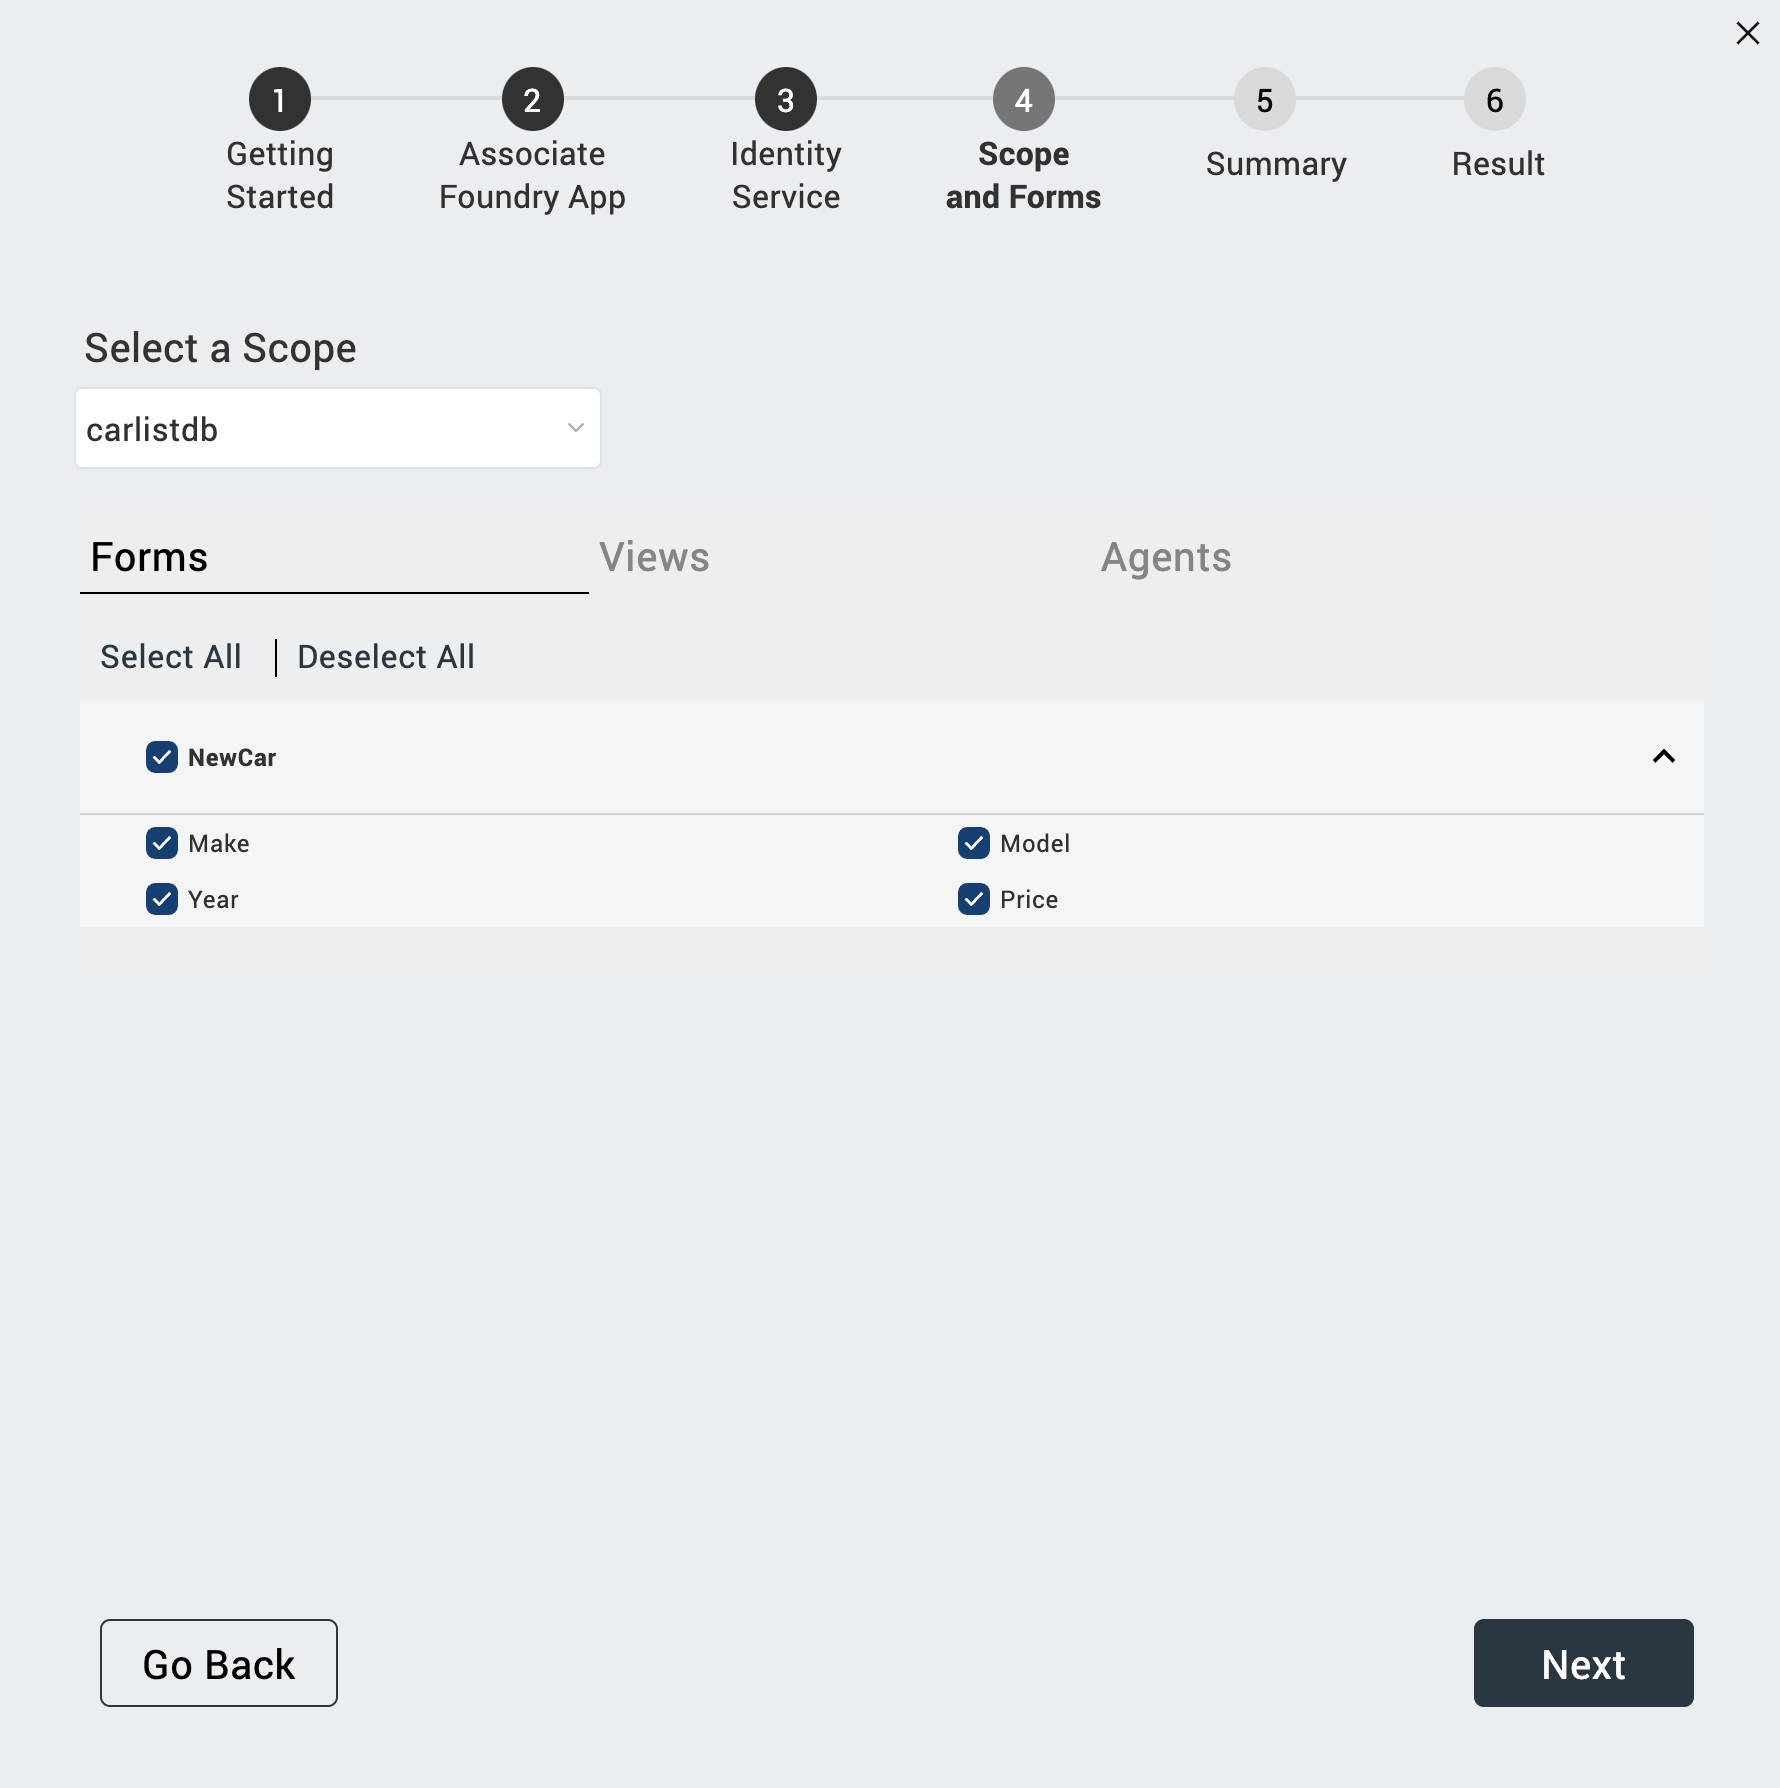
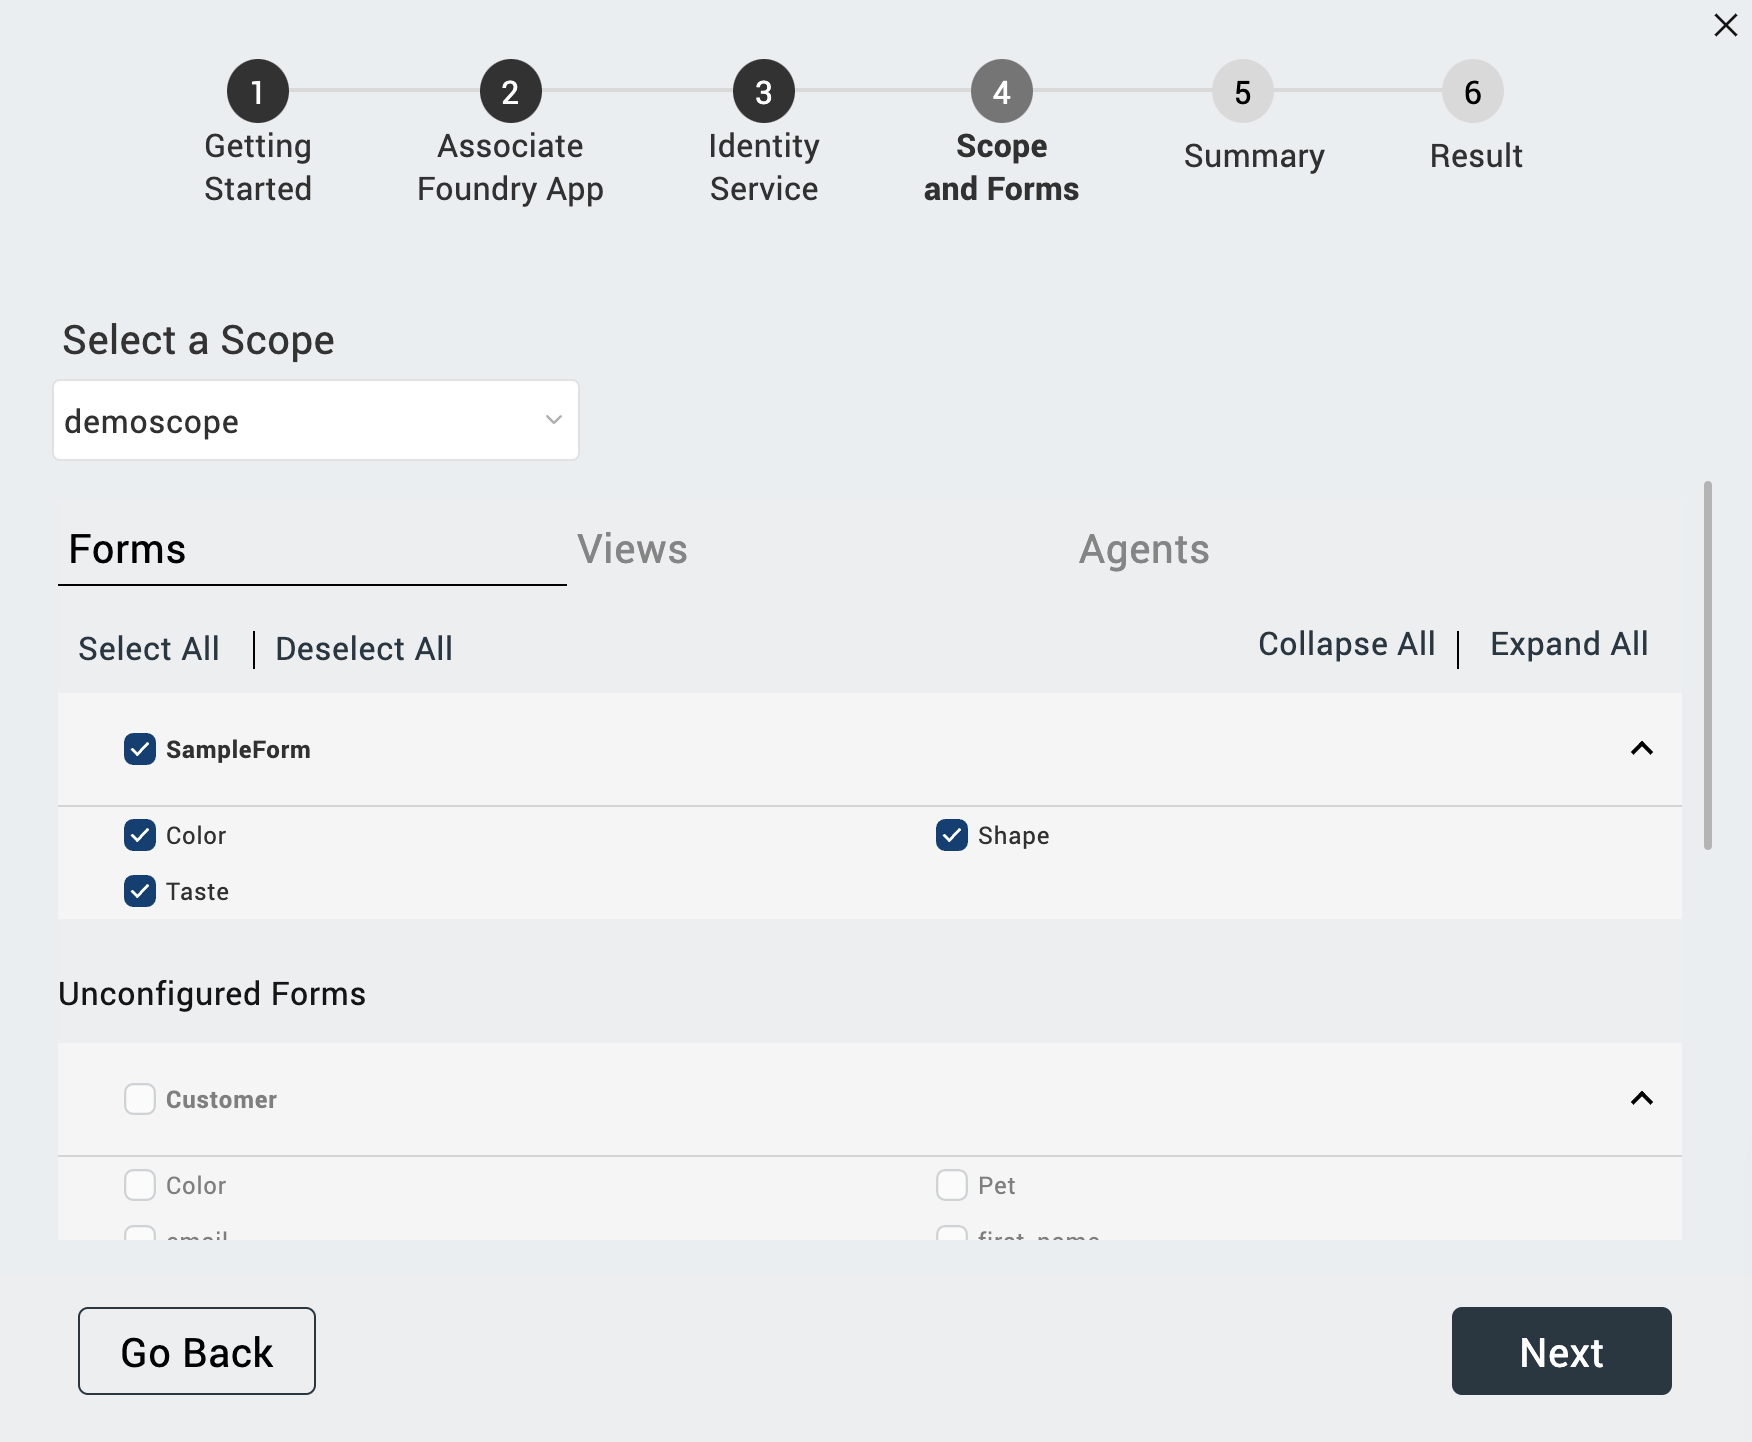
image, designimport, voltformula, rosettacofig

diff --git a/docs/tutorials/designimport.md b/docs/tutorials/designimport.md
@@ -88,7 +88,7 @@
 
 	![](../assets/images/dikeep.png){: style="height:80%;width:80%"}
 
-	1. Select your **service name**, that you added from the earlier page and click **Next**. Once your Foundry Application has pubished, your service name should be named as MXGO(service name). Example: MXGODigiApp1
+	1. Select your **service name**, that you added from the earlier page and click **Next**. Once your Foundry Application has published, your service name should be named as MXGO(service name). Example: MXGODigiSample1
 
 		![](../assets/images/didrapi.png){: style="height:80%;width:80%"}
 
@@ -108,7 +108,7 @@
 6. On the fifth step **Summary**, you can review here the final `Form` and `views` fields you want to import. Once reviewed, click **Build Iris Application.**. 
 
 	!!!tip
-		It may take a while of publishing the imported Irish app.
+		It may take a while of publishing the imported Iris app.
 
 	
 	![](../assets/images/disummary.png){: style="height:80%;width:80%"}	
@@ -119,6 +119,7 @@
 		- The **check mark icon** besides each of the `forms`, `fields` and `views` means that it was successfully created.
 		- The **warning icon** besides each of the `forms`, `fields` and `views` means that the supported datatype doesn't match with the Iris app datatype.
 		- Turn on `show only error` toggle to see all the fields with warning icon.
+		- You may expand and collapse the forms.
 
 	![](../assets/images/diresult.png){: style="height:80%;width:80%"}	
 
@@ -151,7 +152,7 @@
 6. On the fifth step **Summary**, you can review here the final `Form` and `views` fields you want to import. Once reviewed, click **Build Iris Application.**. 
 
 	!!!tip
-		It may take a while of publishing the imported Irish app.
+		It may take a while of publishing the imported Iris app.
 
 
 7. On the final step **Result** , you can see the final `forms` and `views`. 
@@ -160,6 +161,7 @@
 		- The **check mark icon** besides each of the `forms`, `fields` and `views` means that it was successfully created.
 		- The **warning icon** besides each of the `forms`, `fields` and `views` means that the supported datatype doesn't match with the Iris app datatype.
 		- Turn on `show only error` toggle to see all the fields with warning icon.
+		- You may expand and collapse the forms.
 
 
 	Once you click **Done**, each of the selected form, views and agents have imported in the  Iris through the use of Forms in Volt MX Go Iris.

diff --git a/docs/references/whatisnew.md b/docs/references/whatisnew.md
@@ -11,12 +11,13 @@ The section provides information on the latest features, improvements, and resol
 - Added installers for **Domino REST API** and **Volt MX Go Foundry**.
 
 ##### VoltFormula
-- Added Typeahead IntelliSence in the [configuration](../howto/configrosetta.md) which can be seen in the rosetta formula. 
+- Added Typeahead IntelliSense in the [configuration](../howto/configrosetta.md) which can be seen in the rosetta formula. 
 
-#### Design Import
+##### Design Import
 
 - Added support for multi-value fields in creation of  DominoForm and grid table in Domino View.
 - Added **Collapse All** and **Expand All** features in **VoltMX Design Import Wizard**.
+- Added unconfigured and configured forms in **VoltMX Design Import Wizard**.
 ### Improvements
 
 ##### First Touch
@@ -37,17 +38,16 @@ The section provides information on the latest features, improvements, and resol
 ##### VoltFormula
 - IntelliSense improvements on category beside each formula.
 - Update the Rosetta API and Rosetta converter which can be seen in [Rosetta API reference documentation](https://help.hcltechsw.com/docs/voltmxgo/javadoc/index.html).
-- 
 ##### Design Import
 - Improvements on the error toggle button on the **VoltMX Design Import Wizard**.
-- Improve the sortation configuration in importing the forms generated.
+- Improve the sort configuration in importing the forms generated.
 - Updated the warning message for supported **Project** type.
 
 ### Resolve Issues
+
+##### Design Import
 - Fixed the error when choosing a new scope in Scope and Form step in **VoltMX Design Import Wizard**.
 - Fixed the list of scopes if the service has changed.
-##### Design Import
-- 
 ### Others
 - Changed instances of *Keep* to *REST API* in steps and commands in the installation procedures.
 - Updated [Install Domino REST API](../tutorials/downloadhelmchart.md#install-domino-rest-api) procedure by including a step for adding DNS name settings.

diff --git a/docs/howto/configrosetta.md b/docs/howto/configrosetta.md
@@ -10,7 +10,7 @@ This procedure describes how to configure the Rosetta API based on what you need
 - Converter Configuration
 - Use Native vs API Conversion
 
-### To configure settings in Rosetta API
+## To configure settings in Rosetta API
 
 
 1. Click the **Project Settings** icon.
